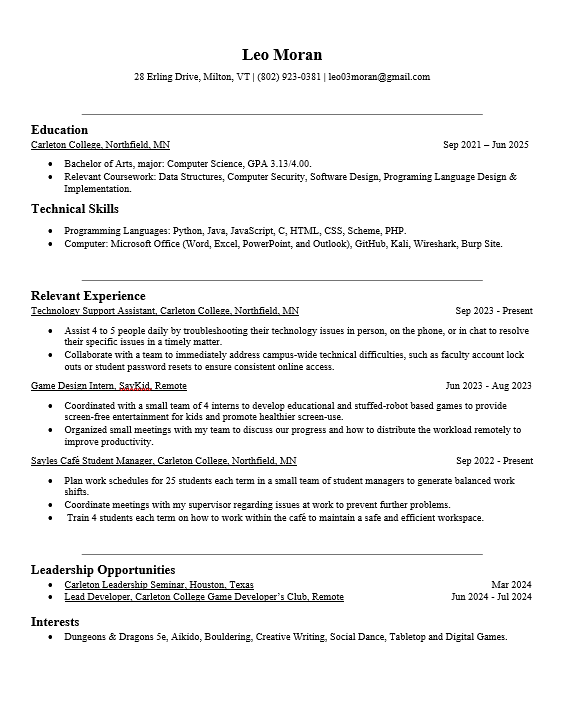
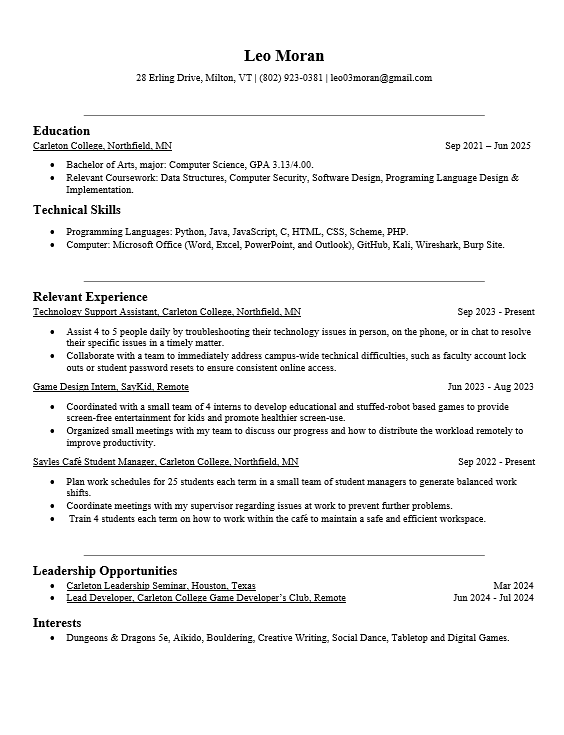
Replaced old resume doc and png, adjusted font size of normal links, returned to original code for work

diff --git a/work.html b/work.html
@@ -33,29 +33,31 @@
                     <div class="col-md-6">
                         <div class="textSheetMedium">
 
-                        <p>Technology Support Assistant <br> For every shift, students and faculty alike head to the <abbr title="Information Technology Services">ITS</abbr> helpdesk in 
-                            search of help, and I do my best to provide the support they need.</p>
-                        
-                        <p>Game Design Intern <br> During the summer of 2023 I worked in a small team of 4 interns to develop 
-                            games that children can play with a stuffed robot that is designed to talk 
-                            to children and play sounds or music.</p>
-                
-                        <p>Student Manager <br> While working in a small team of other student managers, I contribute twoard 
-                            the structuring of the work schedule for every school term, the training of 
-                            student workers, as well as assisting the professional staff with their daily 
-                            tasks.</p>
-                
-                        <p>Jobs I am applying for: Game Development, Cyber Security, Information Technology Services, Software Engineer</p>
+                            <p>Technology Support Assistant <br> For every shift, students and faculty alike head to the <abbr title="Information Technology Services">ITS</abbr> helpdesk in 
+                                search of help, and I do my best to provide the support they need.</p>
+                            
+                            <p>Game Design Intern <br> During the summer of 2023 I worked in a small team of 4 interns to develop 
+                                games that children can play with a stuffed robot that is designed to talk 
+                                to children and play sounds or music.</p>
+                    
+                            <p>Student Manager <br> While working in a small team of other student managers, I contribute twoard 
+                                the structuring of the work schedule for every school term, the training of 
+                                student workers, as well as assisting the professional staff with their daily 
+                                tasks.</p>
+                    
+                            <p>Jobs I am applying for: Game Development, Cyber Security, Information Technology Services, Software Engineer</p>
+                            
                         </div>
                     </div>
                     <div class="col-md-6">
+                        
                         <img src="assets/pictures/resume(4-1-2025).png" alt="Self portrait" class="img-fluid">
                         <p></p>
-                        <a href="assets/documents/Resume Leo(4-1--2025).docx">Download Resume</a>
+                        <a href="assets/documents/Resume Leo(4-1-2025).docx">Download Resume</a>
                     </div>
                 </div>
             </div>
-            
+
             <!-- Copyright-->
             <footer>
                 <a href="https://www.linkedin.com/in/leo04moran"><img src="assets/logos/linkedIn_logo.png" alt="Linkedin Logo" class="logo">leo04moran</a> 
@@ -63,5 +65,6 @@
                 <a href="mailto:leo03moran@gmail.com"><img src="assets/logos/gmail_logo.png" alt="Gmail Logo" class="logo">leo03moran@gmail.com</a> <br> &copy; Leo Moran
             </footer>
         </div>
+
     </body>
 </html>

diff --git a/assets/stylesheets/foundation.css b/assets/stylesheets/foundation.css
@@ -56,7 +56,7 @@ h1, h2, h3, h4 {
 }
 
 a {
-    font-size: 2vw;
+    font-size: 1.8vw;
 }
 
 .img-fluid, video {
